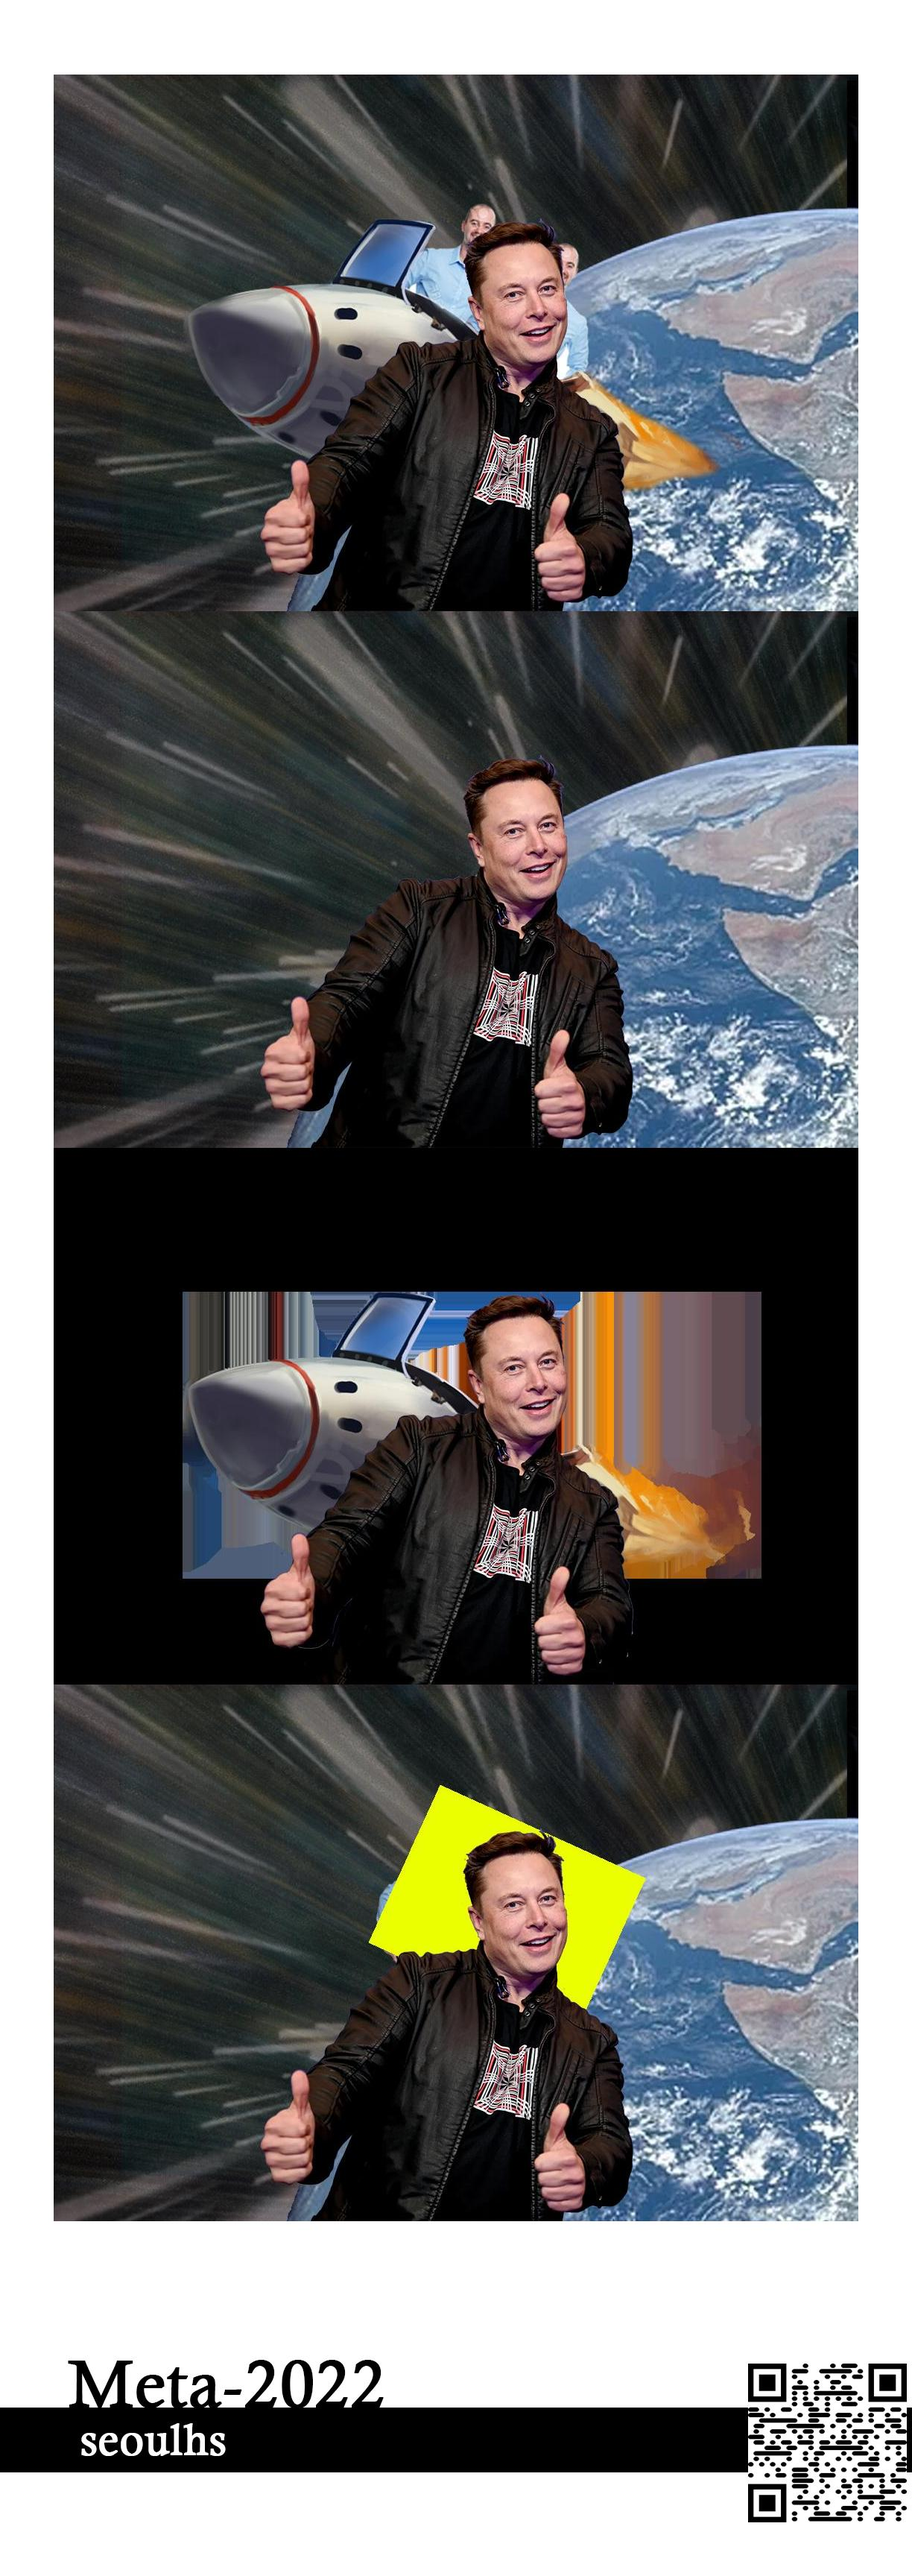
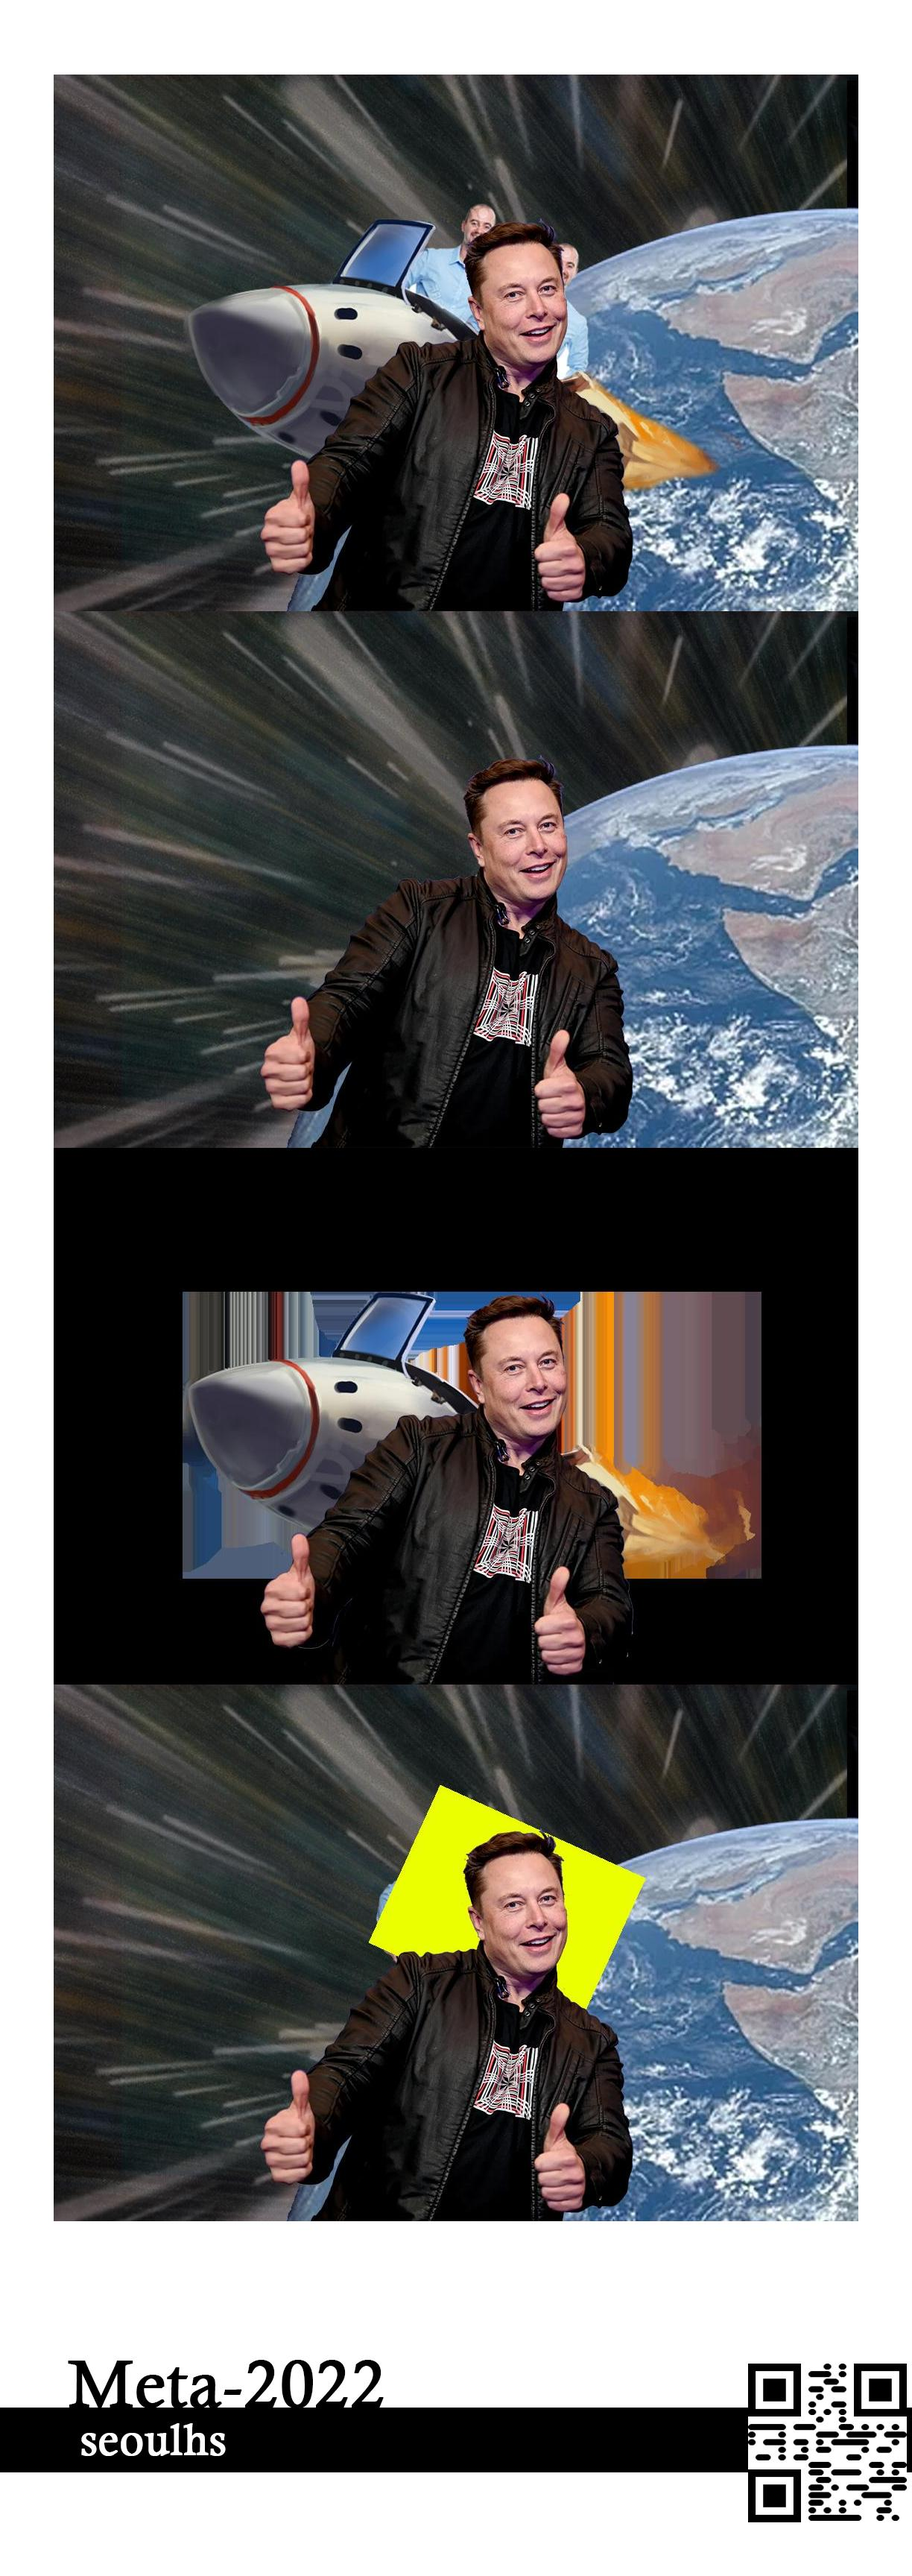
depth place data

Changed region(s): [[0.8072, 0.9062, 0.9935, 1.0]]

diff --git a/test.py b/test.py
@@ -2,8 +2,43 @@
 from PIL import Image
 import final_stitch
 
+data_list=[ ['depth/img/doge_mountain/background.png',600,0,(277, 70),'depth/img/doge_mountain/foreground.png'],
+            ['depth/img/light_travel/background.png',450,0,(330, 100),'depth/img/light_travel/foreground.png'],
+            ['depth/img/radioactive_pool/background.png',500,0,(190, 189),'depth/img/radioactive_pool/foreground.png'],
+            ['depth/img/to_the_moon/background.png',450,-15,(320, 35),'depth/img/to_the_moon/foreground.png'],
+            ]
+def process(img, id):
+    
+    people = Image.open(img)
+    foreground = Image.open(data_list[id-1][4])
+    people.thumbnail((data_list[id-1][1],data_list[id-1][1])) #한변의 최대 길이
+    fw, fh = people.size
+    people = people.rotate(data_list[id-1][2],expand=True)
+    
+
+    background = Image.open(data_list[id-1][0])
+    
+    
+
+    # print(m)
+    background.paste(people,data_list[id-1][3],people)
+    background.paste(foreground,(0,0),foreground)
+    out_dir = 'depth/output/'+img.split('/')[-1].split('.')[0]+'.jpg'
+    background = background.convert("RGB")
+    background.save(out_dir)
+    return out_dir
 
 
-process('elon/foregrounds.png',1)
 
+def filter(img1,img2,img3,img4):
+    processed = []
+    processed.append(process(img1,1))
+    processed.append(process(img2,2))
+    processed.append(process(img3,3))
+    processed.append(process(img4,4))
 
+    print(processed)
+
+    return final_stitch.stitch(processed)
+
+filter('test/324-1.png','test/324-2.png','test/324-3.png','test/324-4.png')

diff --git a/depth_filter.py b/depth_filter.py
@@ -5,14 +5,11 @@ import numpy as np
 #######################
 # process('/content/gfdud33u33.jpg', 1 )
 ##########################
-data_list=[ ['depth/img/to_the_moon/background.png',400,-15,(346, 95),'depth/img/to_the_moon/forground.png'],
-            ['depth/img/to_the_moon/background.png',400,-15,(346, 95),'depth/img/to_the_moon/forground.png'],
-            ['depth/img/to_the_moon/background.png',400,-15,(346, 95),'depth/img/to_the_moon/forground.png'],
-            ['depth/img/to_the_moon/background.png',400,-15,(346, 95),'depth/img/to_the_moon/forground.png'],
-            
-            
+data_list=[ ['depth/img/doge_mountain/background.png',600,0,(277, 70),'depth/img/doge_mountain/foreground.png'],
+            ['depth/img/light_travel/background.png',450,0,(330, 100),'depth/img/light_travel/foreground.png'],
+            ['depth/img/radioactive_pool/background.png',500,0,(190, 189),'depth/img/radioactive_pool/foreground.png'],
+            ['depth/img/to_the_moon/background.png',450,-15,(320, 35),'depth/img/to_the_moon/foreground.png'],
             ]
-
 def place(img, id):
     
     people = Image.open(img)
@@ -32,7 +29,7 @@ def place(img, id):
     out_dir = 'depth/output/'+img.split('/')[-1].split('.')[0]+'.jpg'
     background = background.convert("RGB")
     background.save(out_dir)
-
+    return out_dir
 
 
 def process(filedir, id):

diff --git a/final_stitch.py b/final_stitch.py
@@ -67,6 +67,7 @@ def stitch(images_list):
     
     plate.paste(img_merge,(72,100))
   
+    out_dir = 'product/' + images_list[0].split('/')[-1].split('.')[0][0:-2]+'.jpg'
         
     qr = qrcode.QRCode(
         version=1,
@@ -74,7 +75,8 @@ def stitch(images_list):
         box_size=10,
         border=0.1,
         )
-    qr.add_data('https://www.youtube.com/watch?v=dQw4w9WgXcQ')
+    # qr.add_data('https://www.youtube.com/watch?v=dQw4w9WgXcQ')
+    qr.add_data(out_dir)
 
     qr_img = qr.make_image(image_factory=StyledPilImage, module_drawer=HorizontalBarsDrawer(
     ))
@@ -89,7 +91,6 @@ def stitch(images_list):
 
 
 
-    out_dir = 'product/' + images_list[0].split('/')[-1].split('.')[0][0:-2]+'.jpg'
     final = final.convert('RGB')
     final.save(out_dir)
     return out_dir

diff --git a/elon_filter.py b/elon_filter.py
@@ -33,3 +33,5 @@ def filter(img1,img2,img3,img4):
     print(processed)
 
     return final_stitch.stitch(processed)
+
+filter('test/324-1.png','test/324-2.png','test/324-3.png','test/324-4.png')
